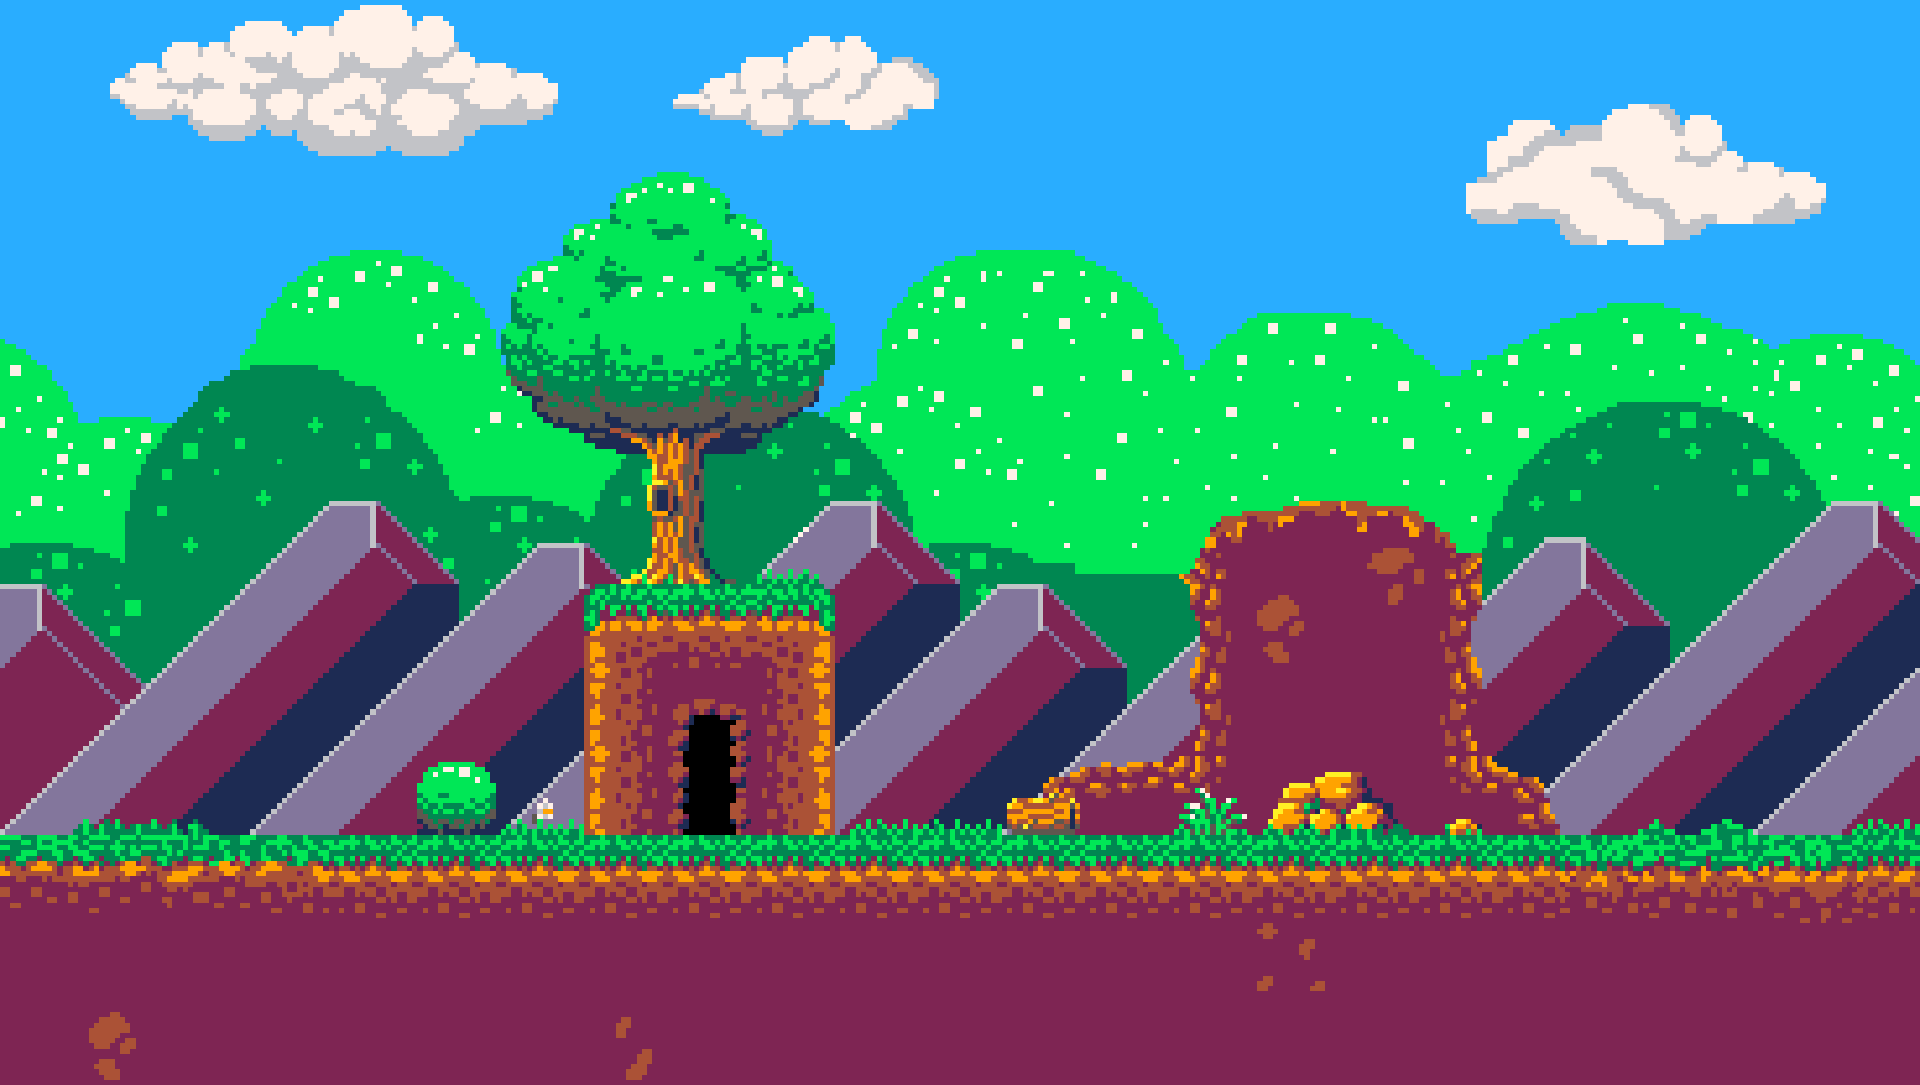
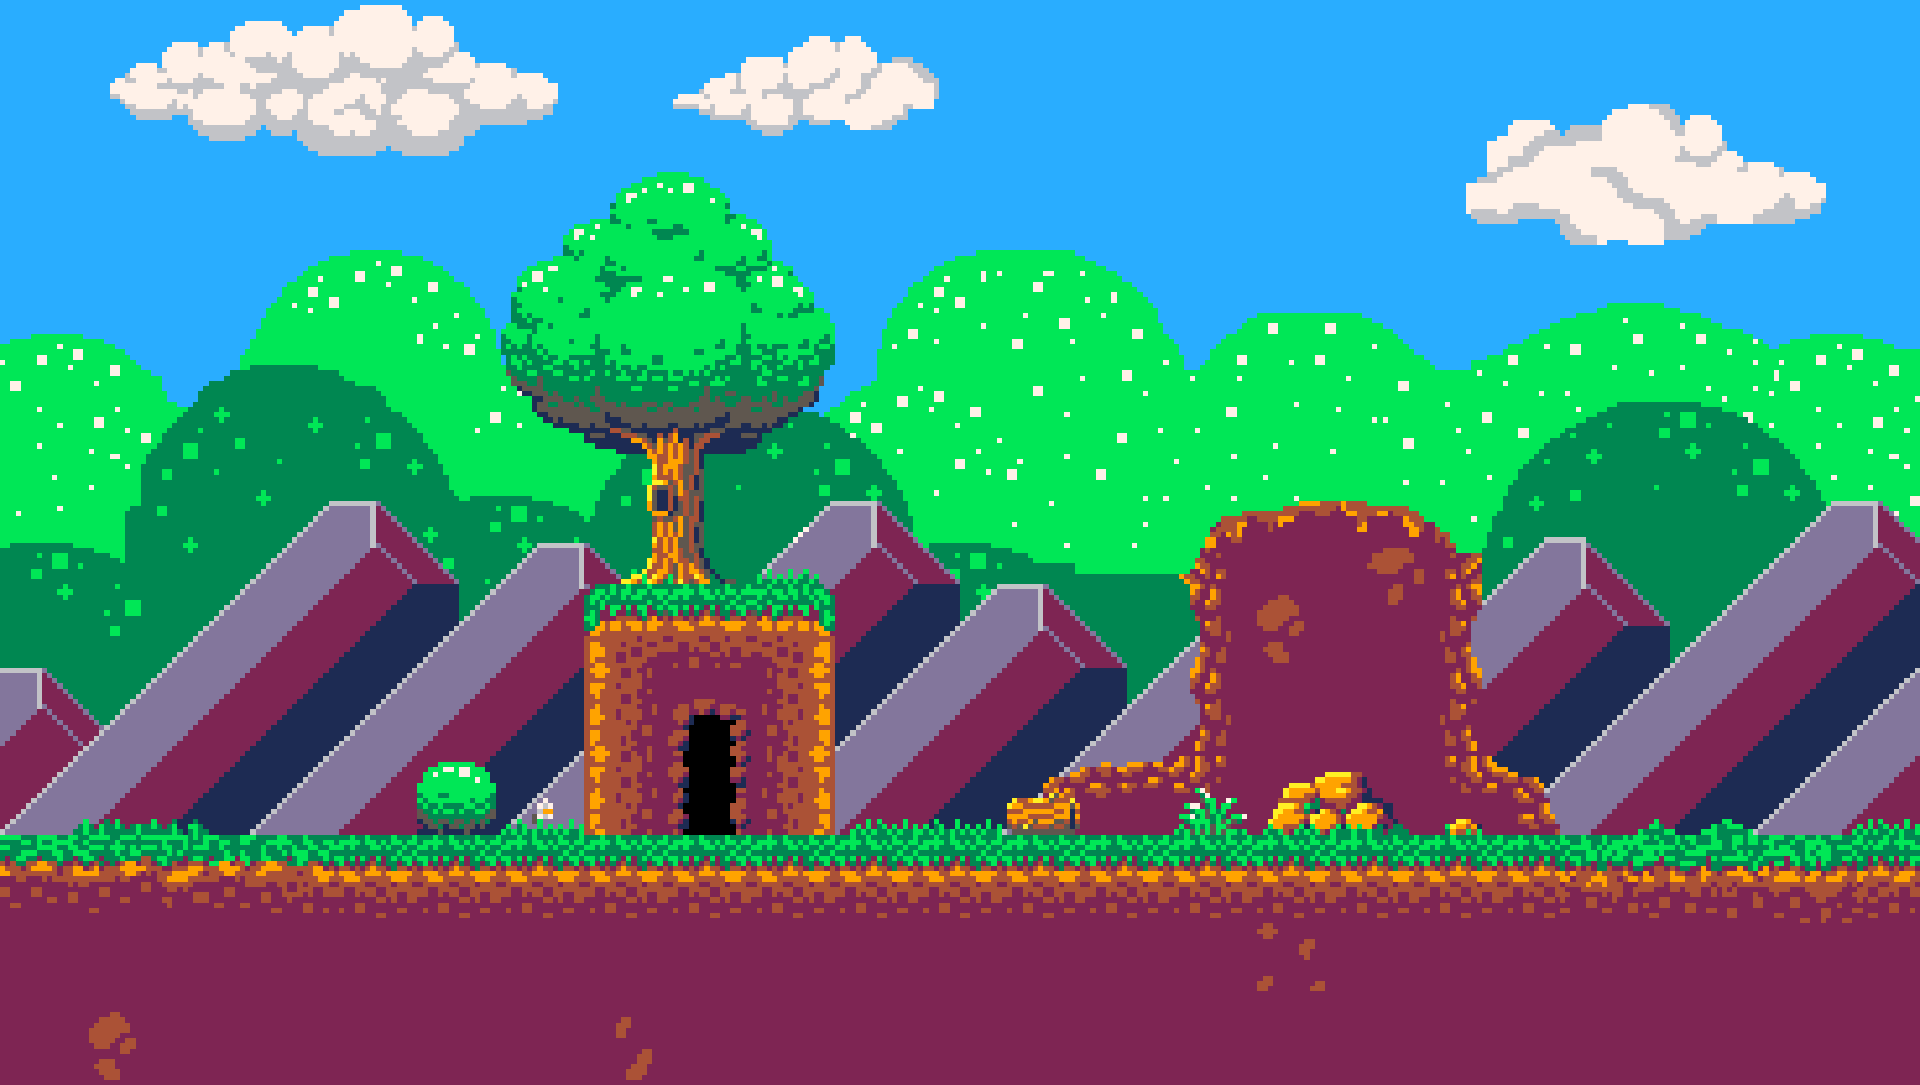
feat: Audio crossfade implementation & game speed balancing

Changed region(s): [[0.0, 0.5171, 0.0938, 0.6995], [0.0, 0.3041, 0.0938, 0.4562]]

diff --git a/script.js b/script.js
@@ -47,9 +47,13 @@ backgroundImg.src = 'assets/background.png';
 const flapSound = new Audio('assets/flap.wav');
 const scoreSound = new Audio('assets/score.wav');
 const hitSound = new Audio('assets/hit.wav');
-const bgMusic = new Audio('assets/music.wav');
 
+// Glasba
+const bgMusic = new Audio('assets/music.wav');
 bgMusic.loop = true;
+
+const endlessMusic = new Audio('assets/endless.wav');
+endlessMusic.loop = true;
 
 // Varen ovitek za localStorage 
 const storage = {
@@ -63,9 +67,25 @@ const storage = {
     }
 };
 
+// --- SPREMENLJIVKE IGRE ---
+let frames = 0;
+let gameState = 'MENU'; // 'MENU', 'READY', 'PLAYING', 'GAMEOVER'
+let score = 0;
+let bestScore = storage.get('bestScore') || 0;
+bestScoreDisplay.innerText = bestScore;
+
+let flashAlpha = 0; 
+let blackFadeAlpha = 0; 
+
+// Dinamična hitrost (POPRAVLJENO)
+let gameSpeed = 2; 
+let pipeSpawnTimer = 0; 
+const maxGameSpeed = 4.2; // Znižana absolutna maksimalna hitrost
+
 // Nastavitve glasnosti
 let savedVolume = storage.get('gameVolume');
 let currentVolume = savedVolume !== null ? parseFloat(savedVolume) : 0.5;
+let currentFadeInterval = null;
 
 function updateVolumeDisplay() {
     volumeValue.innerText = Math.round(currentVolume * 100);
@@ -75,15 +95,57 @@ function updateVolumes() {
     flapSound.volume = currentVolume;
     scoreSound.volume = currentVolume;
     hitSound.volume = currentVolume;
-    bgMusic.volume = currentVolume;
+    
+    if (!currentFadeInterval) {
+        if (gameState === 'PLAYING' || gameState === 'READY') {
+            endlessMusic.volume = currentVolume;
+            bgMusic.volume = 0;
+        } else {
+            bgMusic.volume = currentVolume;
+            endlessMusic.volume = 0;
+        }
+    }
 }
 
-// Inicializiraj glasnosti in prikaz ob zagonu
+// Fade in/out logika za gladko menjavo glasbe
+function crossfadeMusic(fadeOutAudio, fadeInAudio) {
+    if (currentFadeInterval) clearInterval(currentFadeInterval);
+    
+    if (fadeInAudio) {
+        fadeInAudio.volume = 0;
+        fadeInAudio.play().catch(()=>{});
+    }
+    
+    let fadeStep = 0.05; 
+    
+    currentFadeInterval = setInterval(() => {
+        let fadeComplete = true;
+        
+        if (fadeOutAudio && fadeOutAudio.volume > 0) {
+            let newVol = fadeOutAudio.volume - fadeStep;
+            fadeOutAudio.volume = newVol < 0 ? 0 : newVol;
+            fadeComplete = false;
+        } else if (fadeOutAudio && fadeOutAudio.volume === 0 && !fadeOutAudio.paused) {
+            fadeOutAudio.pause();
+        }
+        
+        if (fadeInAudio && fadeInAudio.volume < currentVolume) {
+            let newVol = fadeInAudio.volume + fadeStep;
+            fadeInAudio.volume = newVol > currentVolume ? currentVolume : newVol;
+            fadeComplete = false;
+        }
+        
+        if (fadeComplete) {
+            clearInterval(currentFadeInterval);
+            currentFadeInterval = null;
+        }
+    }, 50);
+}
+
 updateVolumeDisplay();
 updateVolumes();
 
 // --- UI NAVIGACIJA ---
-
 openSettingsBtn.addEventListener('click', () => {
     mainMenu.style.display = 'none';
     settingsMenu.style.display = 'flex';
@@ -104,9 +166,7 @@ closeScoreBtn.addEventListener('click', () => {
     mainMenu.style.display = 'flex';
 });
 
-
 // --- CAMPAIGN LOGIKA ---
-
 let defaultProgress = {
     1: { unlocked: true,  coins: [true, true, false] }, 
     2: { unlocked: true,  coins: [false, false, false] },
@@ -175,7 +235,7 @@ function updateCampaignUI() {
 openCampaignBtn.addEventListener('click', () => {
     mainMenu.style.display = 'none';
     campaignMenu.style.display = 'flex';
-    menuBackground.style.display = 'block'; // Pokažemo barvno CSS ozadje
+    menuBackground.style.display = 'block'; 
     currentCampaignPage = 0; 
     updateCampaignUI();
 });
@@ -183,7 +243,7 @@ openCampaignBtn.addEventListener('click', () => {
 closeCampaignBtn.addEventListener('click', () => {
     campaignMenu.style.display = 'none';
     mainMenu.style.display = 'flex';
-    menuBackground.style.display = 'none'; // Skrijemo barvno ozadje in spet pokažemo animiran canvas
+    menuBackground.style.display = 'none'; 
 });
 
 prevPageBtn.addEventListener('click', () => {
@@ -229,22 +289,15 @@ volPlus.addEventListener('click', () => {
     applyVolumeChange();
 });
 
-// --- SPREMENLJIVKE IGRE ---
-let frames = 0;
-let gameState = 'MENU'; // 'MENU', 'READY', 'PLAYING', 'GAMEOVER'
-let score = 0;
-let bestScore = storage.get('bestScore') || 0;
-bestScoreDisplay.innerText = bestScore;
-
-let flashAlpha = 0; 
-let blackFadeAlpha = 0; 
-const gameSpeed = 2; 
-
 function tryPlayMusic() {
     if (gameState === 'MENU') {
+        bgMusic.volume = currentVolume;
         bgMusic.play().catch(() => {
             document.addEventListener('click', () => {
-                if (gameState === 'MENU') bgMusic.play().catch(() => {});
+                if (gameState === 'MENU') {
+                    bgMusic.volume = currentVolume;
+                    bgMusic.play().catch(() => {});
+                }
             }, { once: true });
         });
     }
@@ -259,16 +312,15 @@ const backgroundLayer = {
     y: 0,
     width: scaledImageWidth,
     height: 512,
-    dx: 0.5, 
     
     draw: function() {
         ctx.drawImage(backgroundImg, this.x, this.y, this.width, this.height);
         ctx.drawImage(backgroundImg, this.x + this.width, this.y, this.width, this.height);
     },
     update: function() {
-        // Ozadje se premika vedno, razen ko smo mrtvi
         if (gameState === 'PLAYING' || gameState === 'MENU' || gameState === 'READY') {
-            this.x -= this.dx;
+            let currentDx = (gameState === 'PLAYING') ? gameSpeed * 0.25 : 0.5;
+            this.x -= currentDx;
             if (this.x <= -this.width) {
                 this.x = 0;
             }
@@ -281,22 +333,20 @@ const floorLayer = {
     y: 0, 
     width: scaledImageWidth,
     height: 512,
-    dx: gameSpeed, 
     
     draw: function() {
         ctx.drawImage(floorImg, this.x, this.y, this.width, this.height);
         ctx.drawImage(floorImg, this.x + this.width, this.y, this.width, this.height);
     },
     update: function() {
-        // Tla se premikajo vedno, razen ko smo mrtvi
         if (gameState === 'PLAYING' || gameState === 'MENU' || gameState === 'READY') {
-            this.x -= this.dx;
+            let currentDx = (gameState === 'PLAYING') ? gameSpeed : 2;
+            this.x -= currentDx;
             if (this.x <= -this.width) {
                 this.x = 0;
             }
         }
         
-        // Trki s tlemi se preverjajo samo, če je igra v teku ali med padcem
         if (gameState === 'PLAYING' || gameState === 'GAMEOVER') {
             const hitGroundY = canvas.height * 0.75; 
             const bh = bird.getHitbox();
@@ -347,11 +397,9 @@ const bird = {
         ctx.restore();
     },
     update: function() {
-        // Zibanje v meniju!
         if (gameState === 'MENU' || gameState === 'READY') {
             this.y = 150 + Math.sin(Date.now() / 200) * 5;
         } 
-        // Padanje med igro in po smrti
         else if (gameState === 'PLAYING' || gameState === 'GAMEOVER') {
             this.velocity += this.gravity;
             this.y += this.velocity;
@@ -383,7 +431,6 @@ const pipes = {
     items: [],
     width: 52,
     gap: 120, 
-    dx: gameSpeed, 
     
     draw: function() {
         for (let i = 0; i < this.items.length; i++) {
@@ -401,7 +448,10 @@ const pipes = {
     update: function() {
         if (gameState !== 'PLAYING') return; 
 
-        if (frames % 100 === 0) {
+        pipeSpawnTimer += gameSpeed; 
+        if (pipeSpawnTimer >= 220) {
+            pipeSpawnTimer = 0; 
+            
             let hitGroundY = canvas.height * 0.75; 
             let minPipeHeight = 50; 
             let maxY = hitGroundY - this.gap - minPipeHeight; 
@@ -410,13 +460,14 @@ const pipes = {
             
             this.items.push({
                 x: canvas.width,
-                y: randomY
+                y: randomY,
+                passed: false 
             });
         }
 
         for (let i = 0; i < this.items.length; i++) {
             let p = this.items[i];
-            p.x -= this.dx;
+            p.x -= gameSpeed; 
 
             const bh = bird.getHitbox(); 
             const top_pipe_tip = p.y;
@@ -428,8 +479,9 @@ const pipes = {
                 }
             }
 
-            if (p.x === bird.x) {
+            if (p.x + this.width < bird.x && !p.passed) {
                 score++;
+                p.passed = true; 
                 scoreSound.currentTime = 0;
                 scoreSound.play().catch(e => {});
             }
@@ -452,7 +504,9 @@ function gameOver() {
     hitSound.play().catch(e => {});
     flashAlpha = 1; 
     
-    bgMusic.pause(); 
+    if(currentFadeInterval) clearInterval(currentFadeInterval);
+    endlessMusic.pause();
+    endlessMusic.currentTime = 0;
     
     if (score > bestScore) {
         bestScore = score;
@@ -470,12 +524,11 @@ function gameOver() {
             if (blackFadeAlpha >= 1) {
                 clearInterval(fadeInterval);
                 
-                // Ponastavimo igro v ozadju, da bo ob zagonu menija že tekla lepa animacija
                 bird.reset();
                 pipes.reset();
                 gameState = 'MENU';
                 
-                menuBackground.style.display = 'none'; // Odstranimo CSS ozadje, da pokažemo canvas
+                menuBackground.style.display = 'none'; 
                 
                 mainMenu.style.transition = 'none';
                 mainMenu.style.opacity = '0';
@@ -488,8 +541,7 @@ function gameOver() {
                     blackFadeAlpha = 0; 
                 });
                 
-                bgMusic.currentTime = 0;
-                bgMusic.play().catch(e => {});
+                crossfadeMusic(null, bgMusic);
             }
         }, 30);
     }, 1200);
@@ -500,6 +552,10 @@ function resetGame() {
     pipes.reset();
     score = 0;
     frames = 0;
+    
+    gameSpeed = 2; 
+    pipeSpawnTimer = 0;
+    
     flashAlpha = 0;
     blackFadeAlpha = 0; 
     gameState = 'READY'; 
@@ -517,8 +573,7 @@ function resetGame() {
             menu.style.transition = 'none';
         });
         
-        bgMusic.pause();
-        bgMusic.currentTime = 0;
+        crossfadeMusic(bgMusic, endlessMusic);
         gameState = 'PLAYING'; 
     }, 400); 
 }
@@ -550,7 +605,13 @@ function draw(now) {
         bird.draw();
 
         if (gameState === 'PLAYING' || gameState === 'GAMEOVER' || gameState === 'READY') {
-            if (gameState === 'PLAYING') frames++;
+            if (gameState === 'PLAYING') {
+                frames++;
+                // Počasi, a vztrajno pospešujemo igro do max omejitve (veliko počasneje kot prej)
+                if (gameSpeed < maxGameSpeed) {
+                    gameSpeed += 0.0002; 
+                }
+            }
 
             ctx.fillStyle = 'white';
             ctx.strokeStyle = 'black';
@@ -597,5 +658,8 @@ function checkAssets() {
     }
 }
 
-floorImg.onload = checkAssets;
-backgroundImg.onload = checkAssets;
+if (floorImg.complete) checkAssets();
+else floorImg.onload = checkAssets;
+
+if (backgroundImg.complete) checkAssets();
+else backgroundImg.onload = checkAssets;